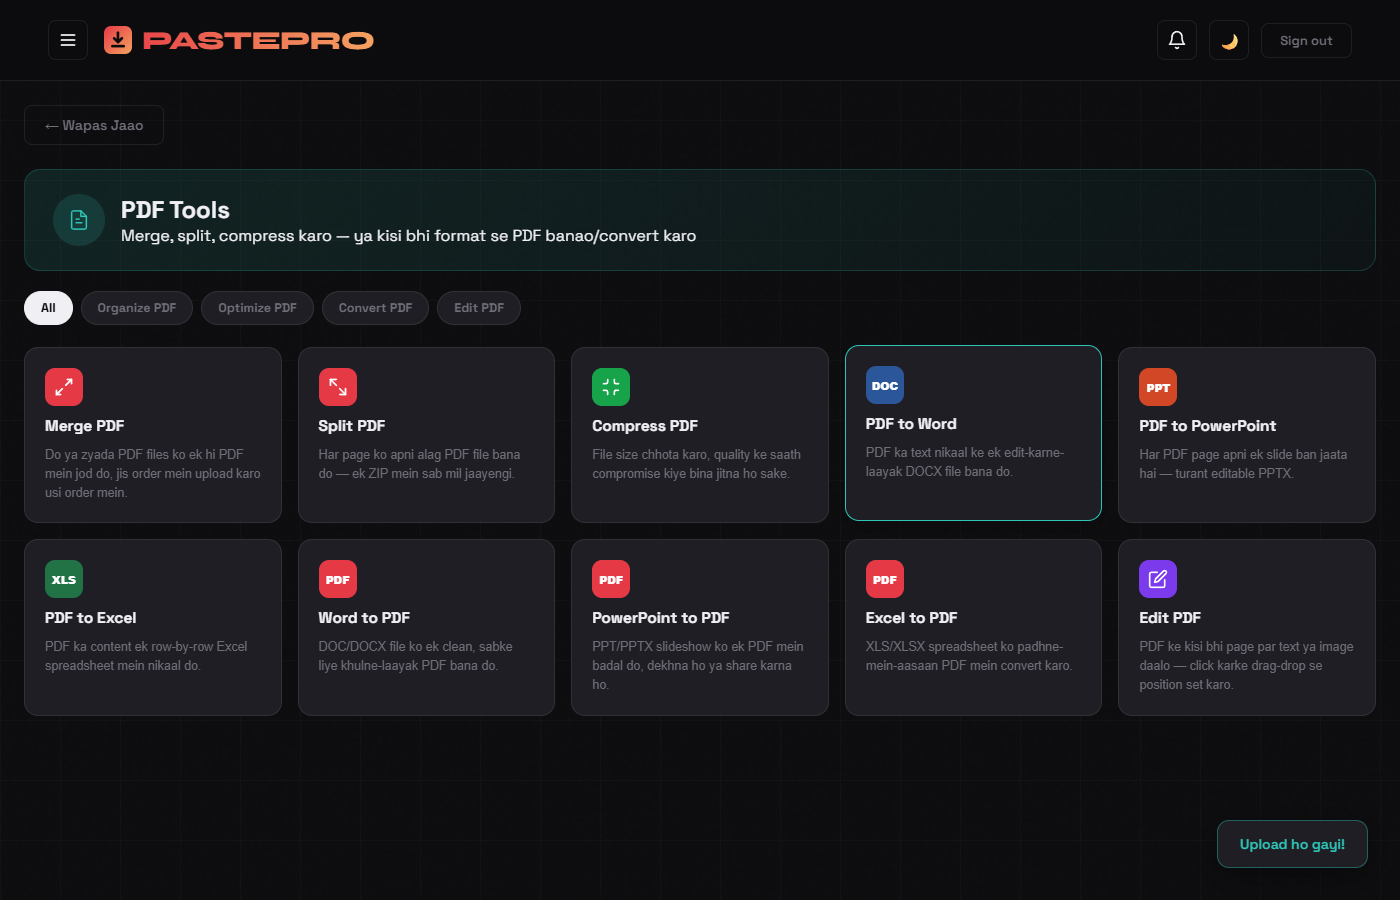
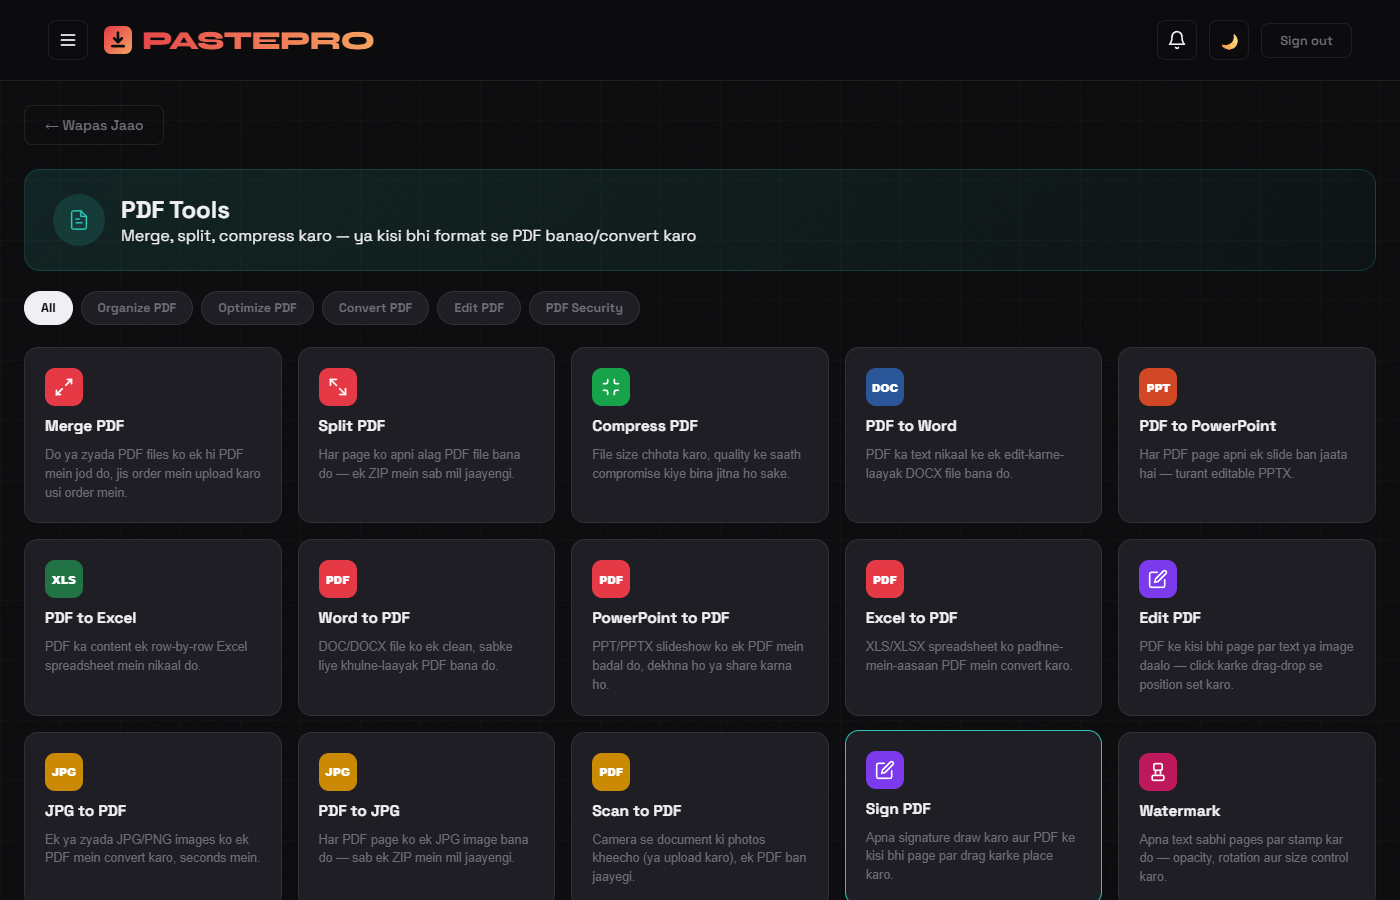
Document the 15 new PDF Tools (Organize/Optimize/Convert/Edit/Security)
The PDF Tools docs section was written before the big 15-tool expansion
(Watermark, Rotate, Page Numbers, Compare, Organize, Repair, OCR, PDF<->JPG,
HTML to PDF, Protect/Unlock/Sign) and still only described the original
10 tools. Rewrote it grouped by the same 5 categories the app itself uses,
regenerated the grid screenshot (now shows all 25 cards instead of 10),
and added 4 new screenshots demonstrating Organize's page reorder, a
Watermark result, Compare's line-diff view, and Sign PDF's drawn signature
placed on a page.

diff --git a/index.html b/index.html
@@ -1505,22 +1505,42 @@
 
         <div class="docs-section">
           <div class="docs-section-title">🧰 PDF Tools</div>
-          <p class="docs-section-desc">A full iLovePDF-style toolset — merge, split, compress, convert PDFs to/from Word, PowerPoint and Excel, and a real visual editor to drop text or images anywhere on a PDF.</p>
+          <p class="docs-section-desc">A full iLovePDF-style toolset — 25 tools across Organize, Optimize, Convert, Edit and PDF Security, filterable by category. Every tool shows a live progress percentage while it works, and opens the result straight in the canvas viewer (ZIP-producing tools download directly instead).</p>
           <ul class="docs-feature-list">
-            <li>Merge PDF — combine two or more PDFs into one, in the order you upload them</li>
-            <li>Split PDF — every page becomes its own PDF file, delivered as a ZIP</li>
-            <li>Compress PDF — shrinks the file size and shows the real before/after size, no exaggerated claims</li>
-            <li>PDF → Word, PowerPoint or Excel, and the reverse — Word/PowerPoint/Excel → PDF</li>
-            <li>Edit PDF — upload a PDF, click "Text Daalo" or "Image Daalo", then click anywhere on any page to drop it there; drag to reposition, resize images, and change text font size/color inline</li>
-            <li>Every tool shows a live progress percentage while it works, and opens the result straight in the canvas viewer (except Split, which downloads its ZIP directly)</li>
+            <li><strong>Organize:</strong> Merge PDF (combine files in upload order) · Split PDF (every page → its own file, as a ZIP) · JPG to PDF (one or more images → one PDF, each on its own page) · Scan to PDF (same, with camera capture on mobile) · Organize PDF (thumbnail preview of every page — reorder with ↑/↓, delete any page, then rebuild)</li>
+            <li><strong>Optimize:</strong> Compress PDF (real before/after size shown, no exaggerated claims) · Repair PDF (best-effort fix for a damaged/corrupt file) · OCR PDF (for scanned/image-only PDFs with no text layer — rasterizes each page and runs it through the vision AI, producing a Word document)</li>
+            <li><strong>Convert:</strong> PDF ↔ Word, PowerPoint and Excel in both directions · PDF to JPG (every page → a JPG, as a ZIP) · HTML to PDF (paste a URL to fetch and print it, or paste raw HTML directly)</li>
+            <li><strong>Edit:</strong> Edit PDF (click "Text Daalo"/"Image Daalo" then click any page to drop it there; drag to reposition, resize images, change text font size/color inline) · Watermark (your text stamped on every page — text, opacity, rotation, size and color are all adjustable) · Rotate PDF (90°/180°/270°, applied to every page) · Page Numbers (position and starting number configurable) · Compare PDF (upload two PDFs, see a line-by-line diff per page — added lines in green, removed in red)</li>
+            <li><strong>PDF Security:</strong> Protect PDF (add a password) · Unlock PDF (remove one, if you know it) · Sign PDF (draw a signature on a pad, then place/drag/resize it on any page — it's really just the Edit PDF image-overlay flow under the hood)</li>
+            <li>Two things are honestly scoped rather than faked: <strong>PDF to PDF/A</strong> is disclosed as a best-effort structural cleanup, not a certified ISO PDF/A conversion; <strong>OCR PDF</strong> produces an editable Word doc rather than an invisibly-searchable PDF, since that would need word-level bounding boxes a plain-text AI response doesn't provide</li>
           </ul>
           <div class="docs-shot-wrap">
             <img class="docs-shot" src="/docs-assets/pdf-tools-grid.png" alt="PDF Tools grid with category filters" loading="lazy" />
-            <div class="docs-shot-caption">The PDF Tools grid — every tool one click away, filterable by category</div>
+            <div class="docs-shot-caption">The PDF Tools grid — 25 tools across 5 categories, one click away</div>
+          </div>
+          <div class="docs-shot-row">
+            <div>
+              <img class="docs-shot" src="/docs-assets/pdf-edit-studio.png" alt="Edit PDF — text and image placed on a page" loading="lazy" />
+              <div class="docs-shot-caption">Edit PDF — a text overlay and an image dropped onto the page, both draggable</div>
+            </div>
+            <div>
+              <img class="docs-shot" src="/docs-assets/pdf-sign.png" alt="Sign PDF — a drawn signature placed on a page" loading="lazy" />
+              <div class="docs-shot-caption">Sign PDF — draw a signature, then drag it wherever it needs to go</div>
+            </div>
+          </div>
+          <div class="docs-shot-row">
+            <div>
+              <img class="docs-shot" src="/docs-assets/pdf-organize.png" alt="Organize PDF — page thumbnails with reorder and delete controls" loading="lazy" />
+              <div class="docs-shot-caption">Organize PDF — reorder or delete pages from a thumbnail view</div>
+            </div>
+            <div>
+              <img class="docs-shot" src="/docs-assets/pdf-watermark.png" alt="Watermark applied diagonally across a PDF page" loading="lazy" />
+              <div class="docs-shot-caption">Watermark — text, opacity, rotation, size and color all adjustable</div>
+            </div>
           </div>
           <div class="docs-shot-wrap">
-            <img class="docs-shot" src="/docs-assets/pdf-edit-studio.png" alt="Edit PDF — text and image placed on a page" loading="lazy" />
-            <div class="docs-shot-caption">Edit PDF — a text overlay and an image dropped onto the page, both draggable</div>
+            <img class="docs-shot" src="/docs-assets/pdf-compare.png" alt="Compare PDF showing an added and a removed line" loading="lazy" />
+            <div class="docs-shot-caption">Compare PDF — a per-page line diff between two files</div>
           </div>
         </div>
 
